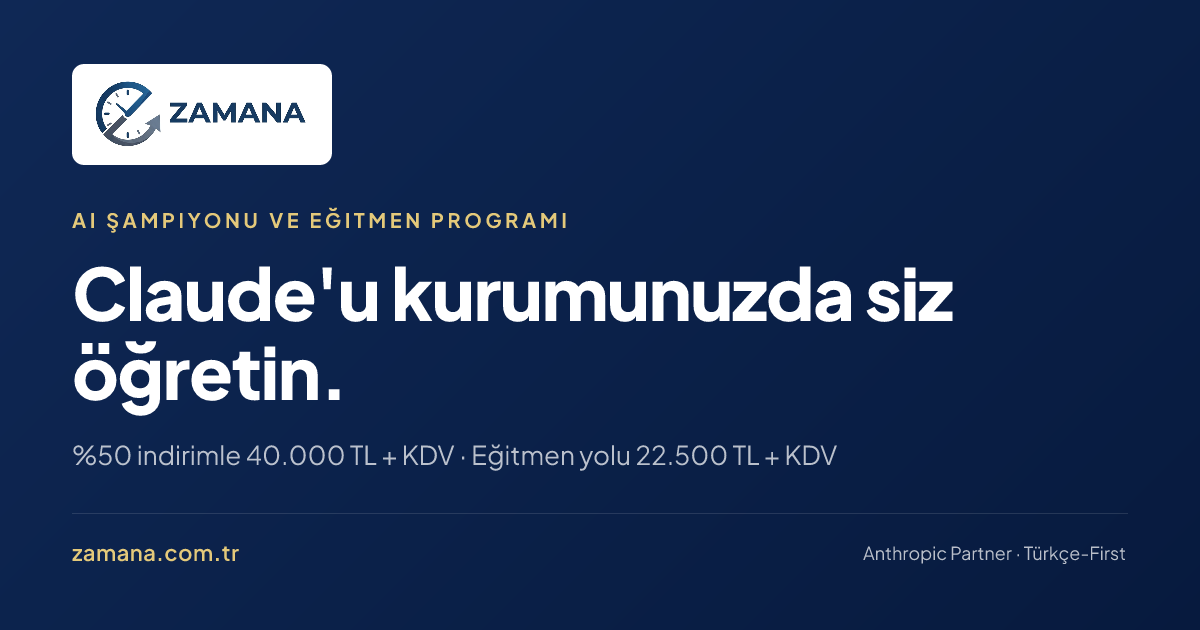
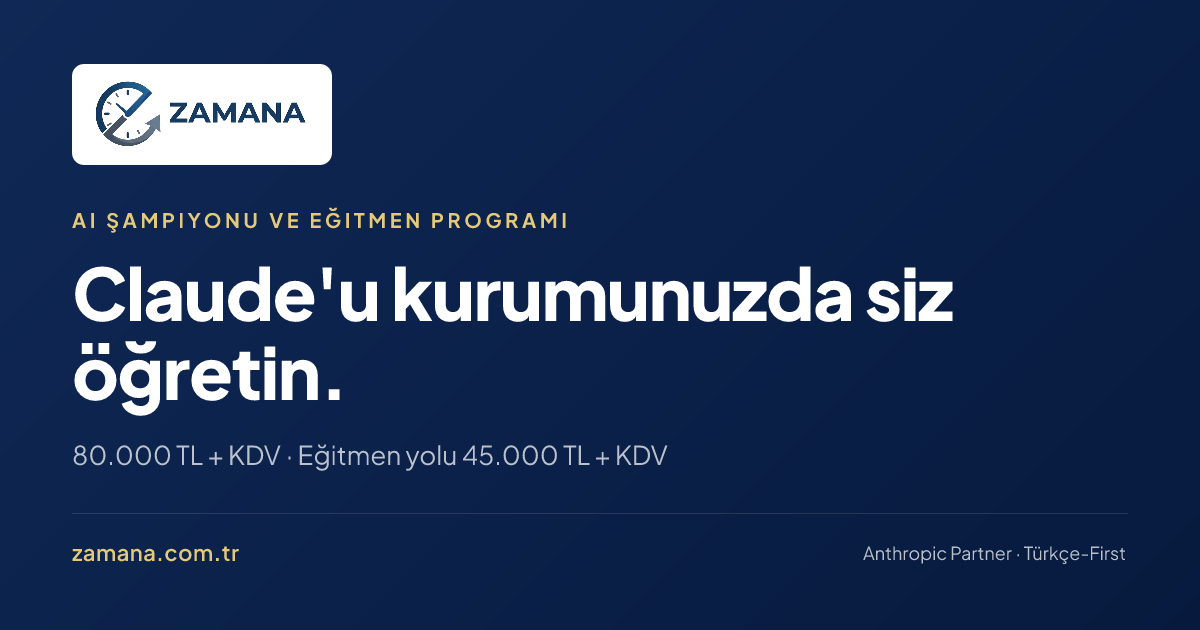
Pricing: end 50% campaign, restore list prices
- Set campaign.active = false; strike, chip, bar and priceValidUntil disappear
- Restore pre-campaign OG subtitles for 9 program pages and regenerate images

Changed region(s): [[0.0617, 0.6937, 0.7092, 0.754]]

diff --git a/src/data/pricing.ts b/src/data/pricing.ts
@@ -4,7 +4,7 @@
 // The check below also turns it off automatically on builds after `endsAt`.
 
 export const campaign = {
-  active: true,
+  active: false,
   /** Share of the list price the customer pays (0.5 = %50 indirim). */
   factor: 0.5,
   percentLabel: '%50',
